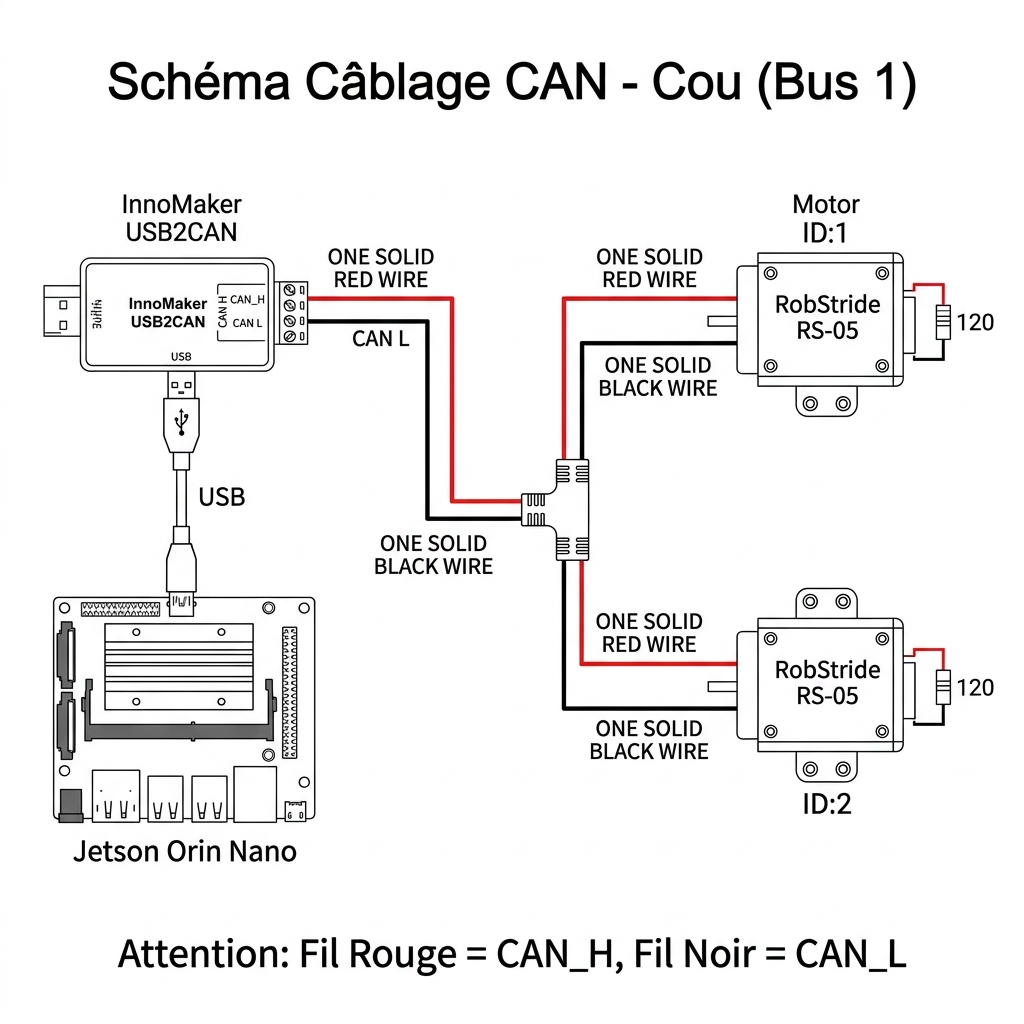
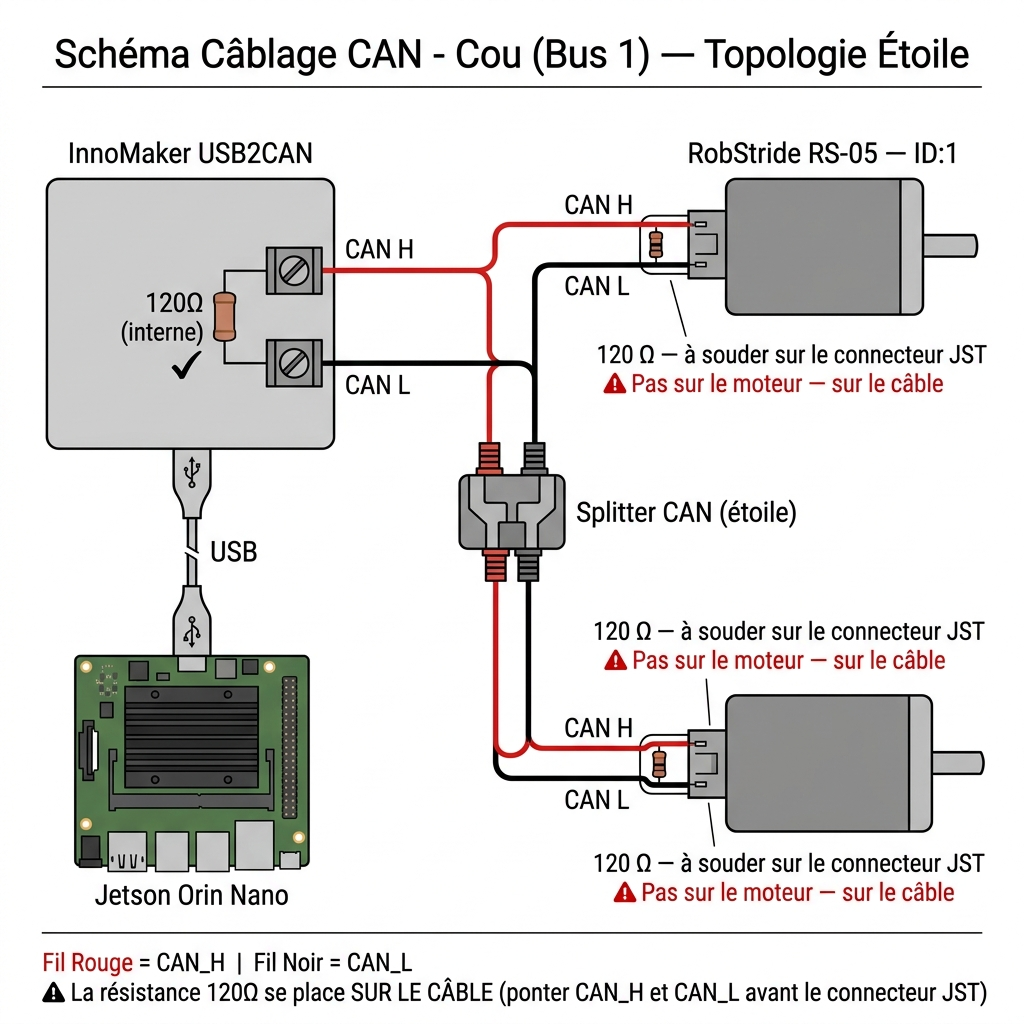
docs: fix 120Ω termination placement on RS-05 cable (star topology) + new wiring diagram

diff --git a/annexes/jetson/liaison_can/42_Configuration_CAN_InnoMaker_RS05.md b/annexes/jetson/liaison_can/42_Configuration_CAN_InnoMaker_RS05.md
@@ -12,11 +12,24 @@ Ce guide décrit la mise en place du **Bus CAN 1** dédié aux moteurs RobStride
 ![Schéma Câblage CAN - Cou (Bus 1)](../../../assets/can_innomaker_rs05_wiring.png)
 
 ### Points clés du câblage
-- **CAN H** (rouge) et **CAN L** (noir) partent de l'InnoMaker vers un **splitter CAN** central.
+- **CAN H** (rouge) et **CAN L** (noir) partent de l'InnoMaker vers un **splitter CAN** central (topologie étoile obligatoire).
 - Le splitter distribue les 2 fils vers chaque RS-05 **en parallèle**.
-- Chaque RS-05 doit avoir sa **résistance de terminaison 120 Ω** active entre CAN H et CAN L (vérifiez le jumper ou micro-switch de la carte).
-- **L'InnoMaker côté Jetson** doit également posséder sa résistance de terminaison 120 Ω (activée en usine ou via cavalier).
 - La **masse (GND)** doit être commune entre la Jetson, l'InnoMaker et les alimentations moteurs pour éviter un bus flottant.
+
+### Résistances de Terminaison 120 Ω — Où les Placer ?
+
+> [!IMPORTANT]
+> Le RS-05 n'ayant **qu'un seul port CAN** (entrée uniquement, pas de sortie), il n'y a aucun cavalier ou DIP switch de terminaison intégré au moteur. C'est une topologie en étoile, et les résistances doivent être placées **sur les câbles**, pas sur les boîtiers moteurs.
+
+Le bus CAN requiert une résistance de **120 Ω à chaque extrémité physique du réseau**. Dans cette topologie étoile, les 3 extrémités sont :
+
+| Extrémité | Résistance | Comment |
+| :--- | :--- | :--- |
+| **InnoMaker (côté Jetson)** | 120 Ω **intégrée en interne** | Activée en usine — vérifiez le cavalier sur la carte ✅ |
+| **Câble RS-05 ID:1** | 120 Ω **à souder sur la prise JST** | Ponter CAN H (rouge) et CAN L (noir) juste avant le connecteur |
+| **Câble RS-05 ID:2** | 120 Ω **à souder sur la prise JST** | Idem |
+
+**Méthode pratique :** Soudez les deux pattes de la résistance 120 Ω directement entre les fils rouge et noir, **juste avant** que le câble n'entre dans le connecteur JST qui se fiche sur le moteur. La résistance doit être sur le câble indépendamment du moteur, de sorte qu'elle reste en place même si vous débranchez le moteur pour maintenance.
 
 ---
 
